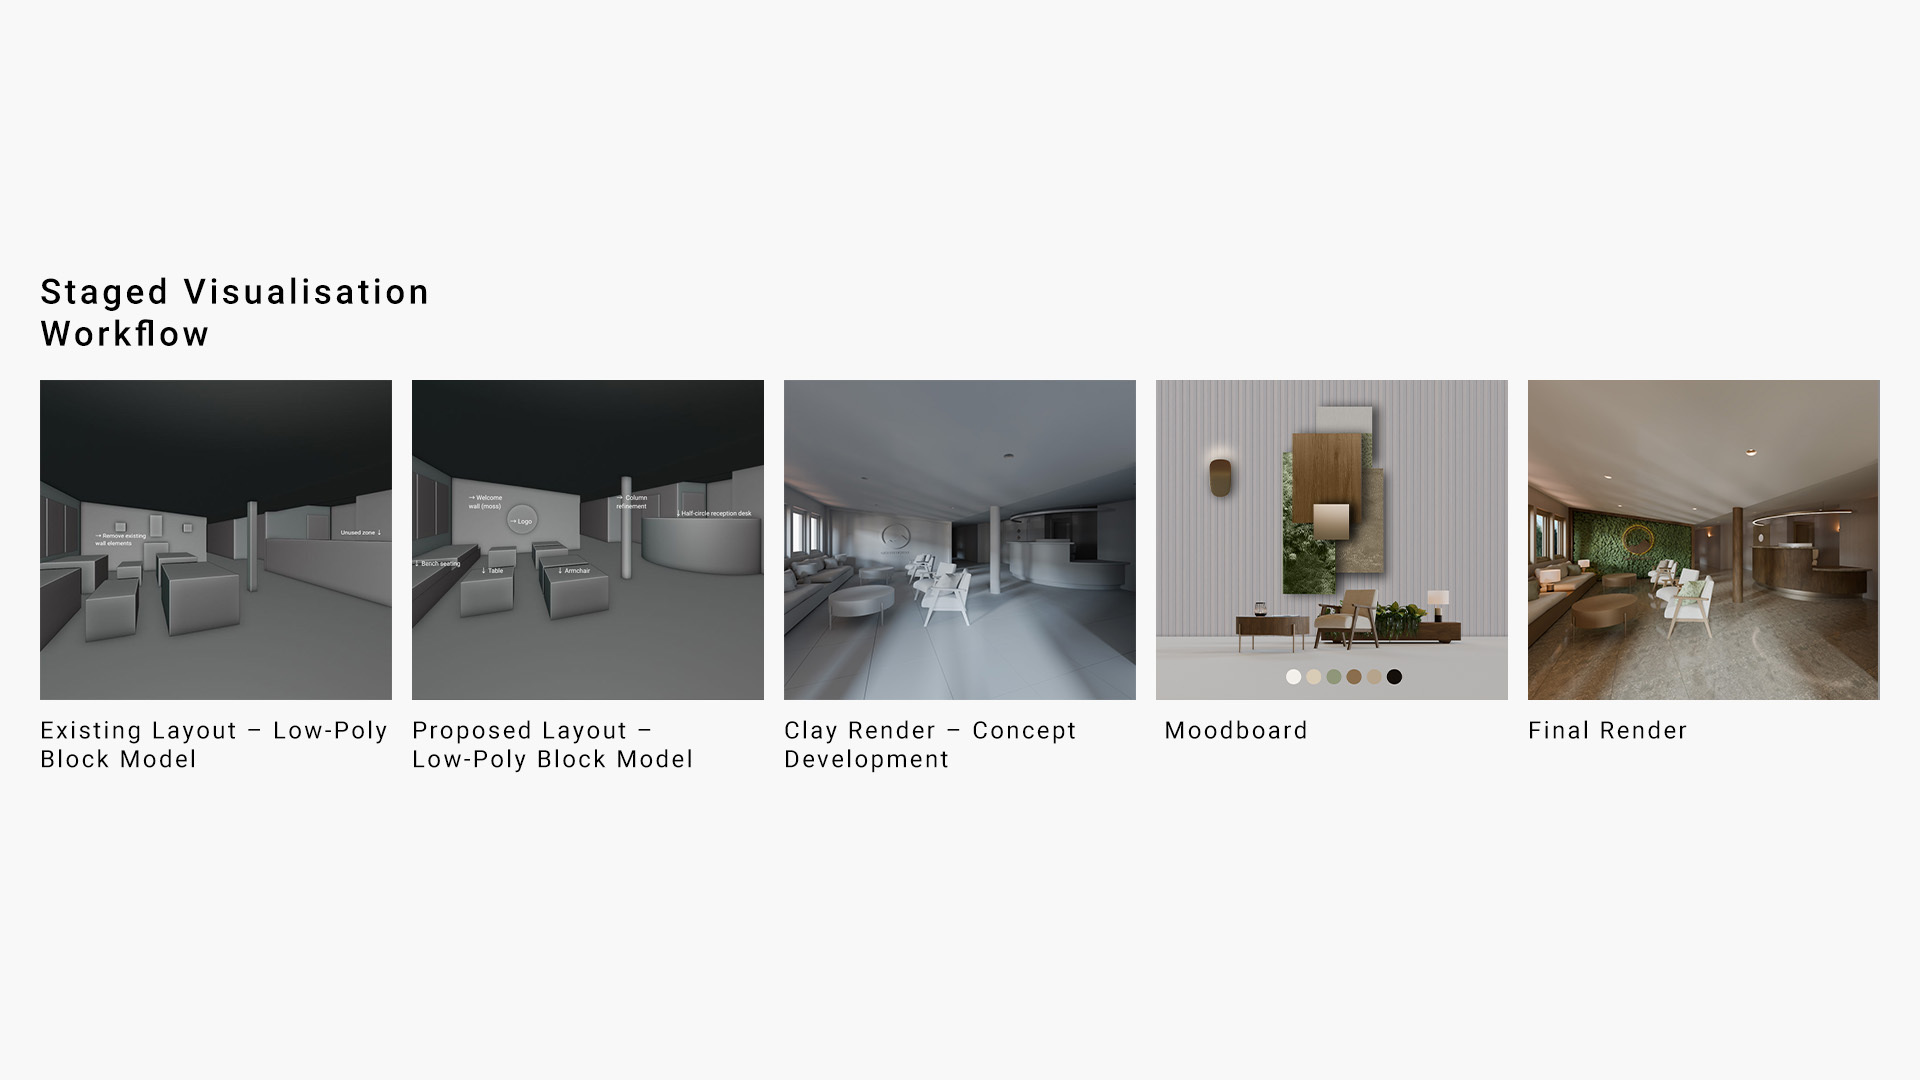
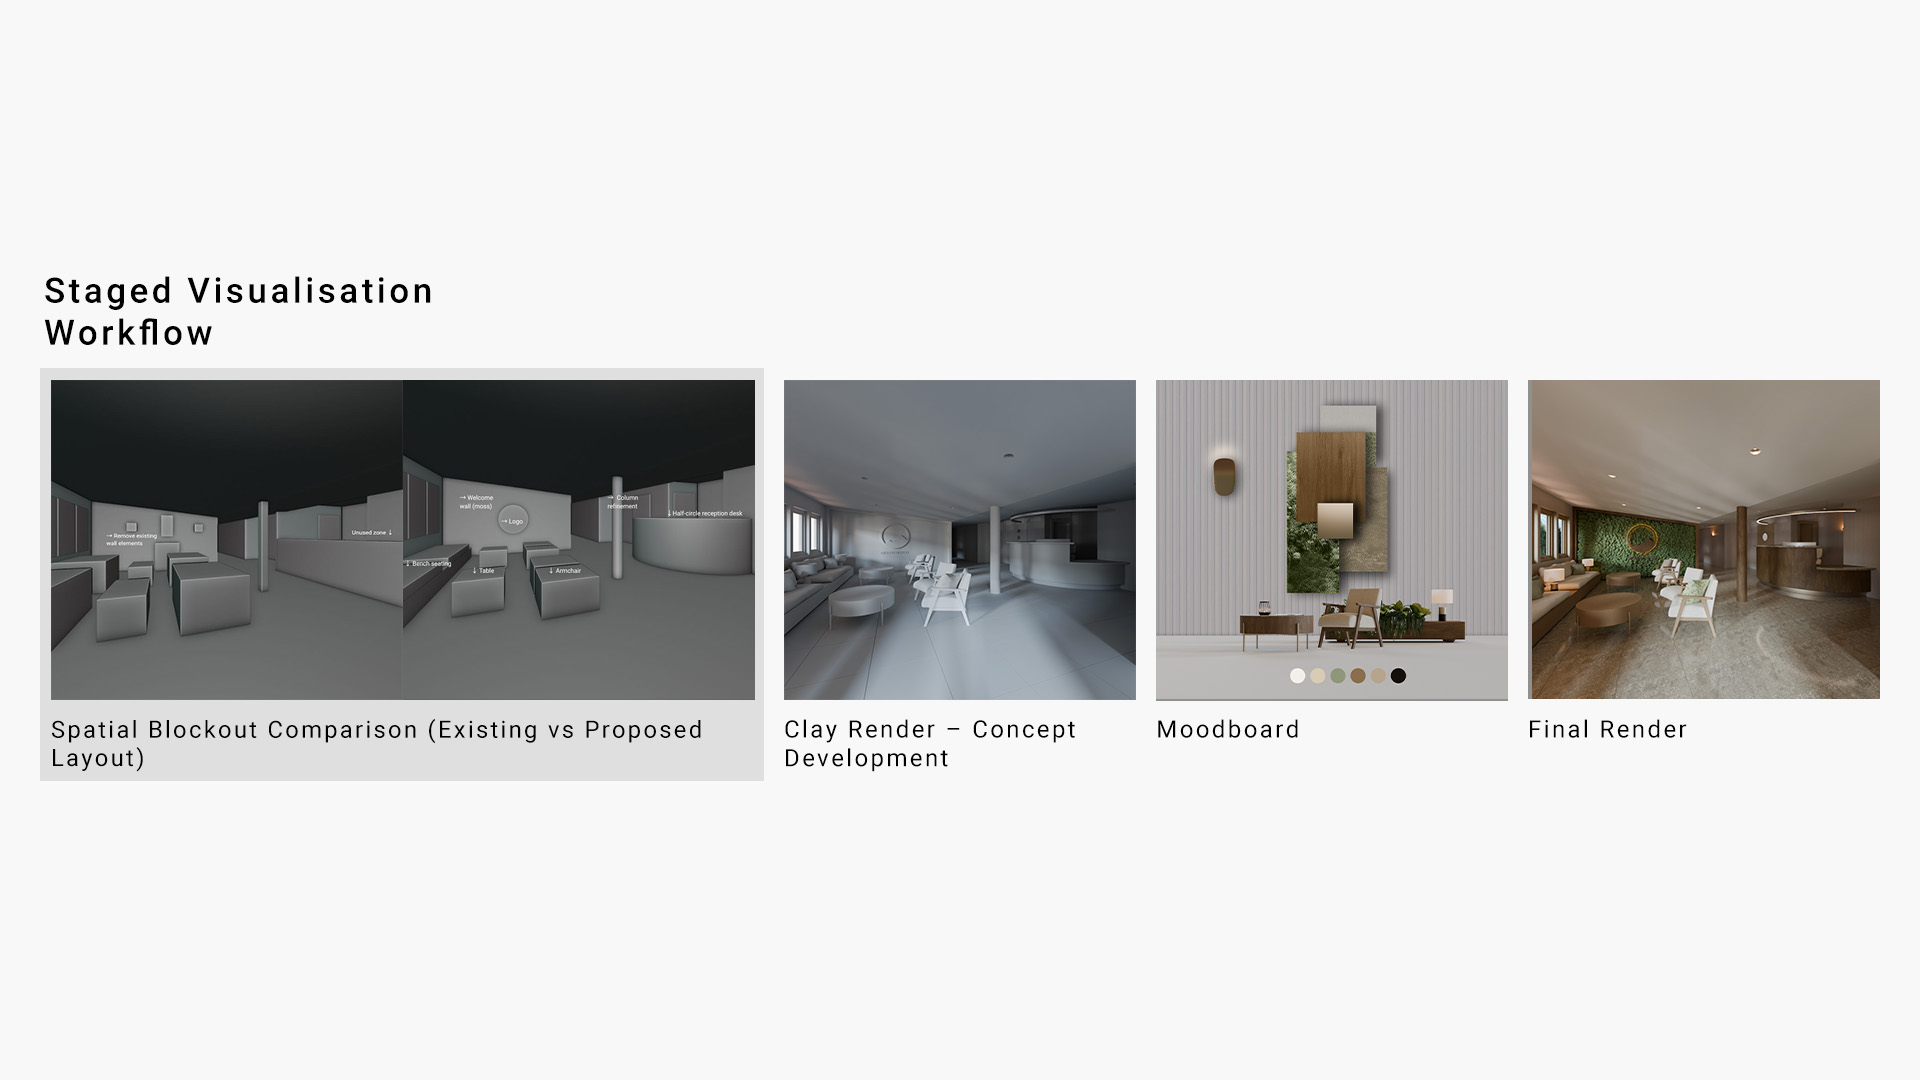
Add new repo

diff --git a/business-plan-report.html b/business-plan-report.html
@@ -523,7 +523,7 @@
           />
         </div>
         <figcaption class="section-figure-caption">
-          A five‑stage workflow demonstrating how client projects progress from blockout to final render.
+          A four-stage visualisation workflow showing project development from spatial blockout comparison to final render.
     </figcaption>
   </figure>
       </div>
@@ -541,7 +541,7 @@
             </p>
 
             <p>
-              My standard workflow includes low‑poly blockouts of the existing and proposed layouts, supported by annotated viewport renders that highlight spatial changes. Once the layout is approved, I develop clay renders with accurate furniture and lighting positions, followed by a material and atmosphere moodboard that establishes the intended palette and design direction. This staged process is illustrated in the workflow visual, which outlines the five key steps used in client projects.
+              My standard workflow includes low‑poly blockouts of the existing and proposed layouts, supported by annotated viewport renders that highlight spatial changes. Once the layout is approved, I develop clay renders with accurate furniture and lighting positions, followed by a material and atmosphere moodboard that establishes the intended palette and design direction. This staged process is illustrated in the workflow visual, which outlines the four key steps used in client projects.
             </p>
 
              <p>
@@ -646,7 +646,7 @@
             <div class="sub-text">
                <h3>Viewport Walkthrough — Spatial Understanding</h3>
               <p>
-                To support early spatial understanding, I produced a short viewport clip from the guest’s perspective at the entrance. The first frame shows the seating area and the main focal wall exactly as guests see them when entering. As the camera moves slowly to the right, the proposed half‑circular reception desk block becomes visible, clarifying how the new layout organises the arrival sequence and improves circulation. This rough, material‑free clip keeps the focus on spatial logic before moving into clay‑stage development.
+                To support early spatial understanding, I produced a short viewport clip from the guest’s perspective at the entrance. The first frame shows the seating area and the main focal wall exactly as guests see them when entering. As the camera moves slowly to the right, the proposed half‑circular reception desk block becomes visible, clarifying how the new layout organises the arrival sequence and improves circulation. Presenting this information through a viewport clip strengthened the client’s understanding of the proposed spatial experience at the concept stage.
               </p>
             </div>
           </article>
@@ -668,6 +668,25 @@
               </p>
             </div>
           </article>
+
+          <!-- Sub 3 -->
+          <article class="subsection layout-image-right">
+            <div class="sub-text">
+              <h3>Material & Atmosphere Moodboard — Design Direction</h3>
+              <p>
+               To guide the transition from clay development to final visuals, I prepared a simple material and atmosphere moodboard. The palette focuses on warm natural tones, soft greens, and light timber textures that reflect the surrounding Norwegian landscape and the client’s interest in incorporating locally sourced materials. This stage established the overall atmosphere and colour direction before applying full materials in the final renders, ensuring the design remained aligned with the client’s vision for a brighter and more welcoming reception.
+              </p>
+            </div>
+            <div class="sub-image-wrapper">
+              <img
+                src="assets/projects/pr14/images/Moodboard2.jpg"
+                data-full="assets/projects/pr14/images/Moodboard.jpg"
+                alt="Client review view"
+                class="sub-image"
+              />
+            </div>
+          </article>
+          
 
           <!-- Sub 2 – GALLERY BAR -->
           <article class="subsection subsection-gallery">
@@ -763,25 +782,6 @@
             </div>
           </article>
 
-          <!-- Sub 3 
-          <article class="subsection layout-image-right">
-            <div class="sub-text">
-              <h3>Client feedback loop</h3>
-              <p>
-                The gallery supports fast reviews. Clients can choose preferred scenes,
-                which are then refined with higher resolution, adjusted styling and
-                more precise lighting.
-              </p>
-            </div>
-            <div class="sub-image-wrapper">
-              <img
-                src="assets/projects/pr14/images/hotel.png"
-                alt="Client review view"
-                class="sub-image"
-              />
-            </div>
-          </article>
-          -->
         </div>
       </div>
     </section>
